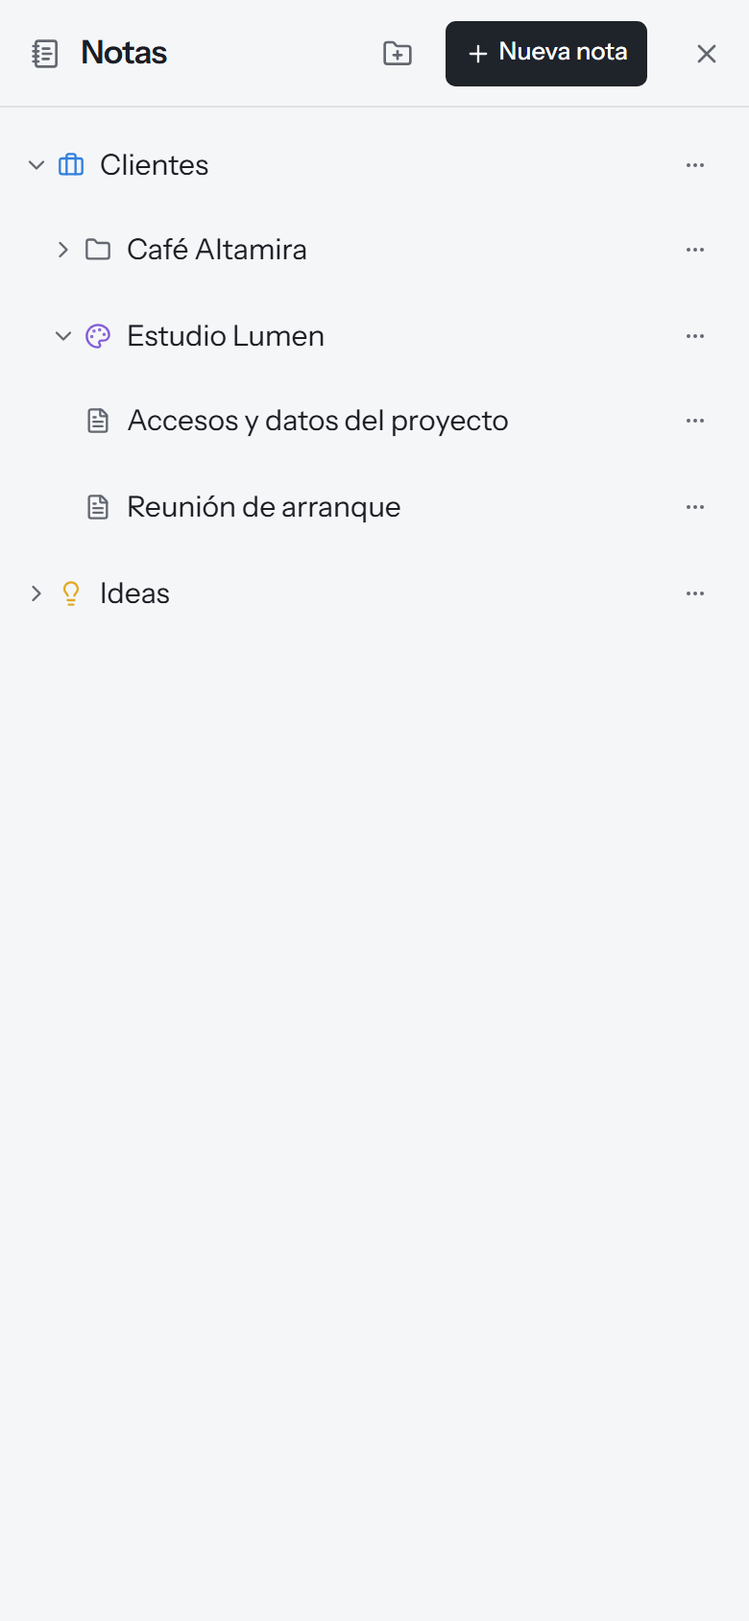
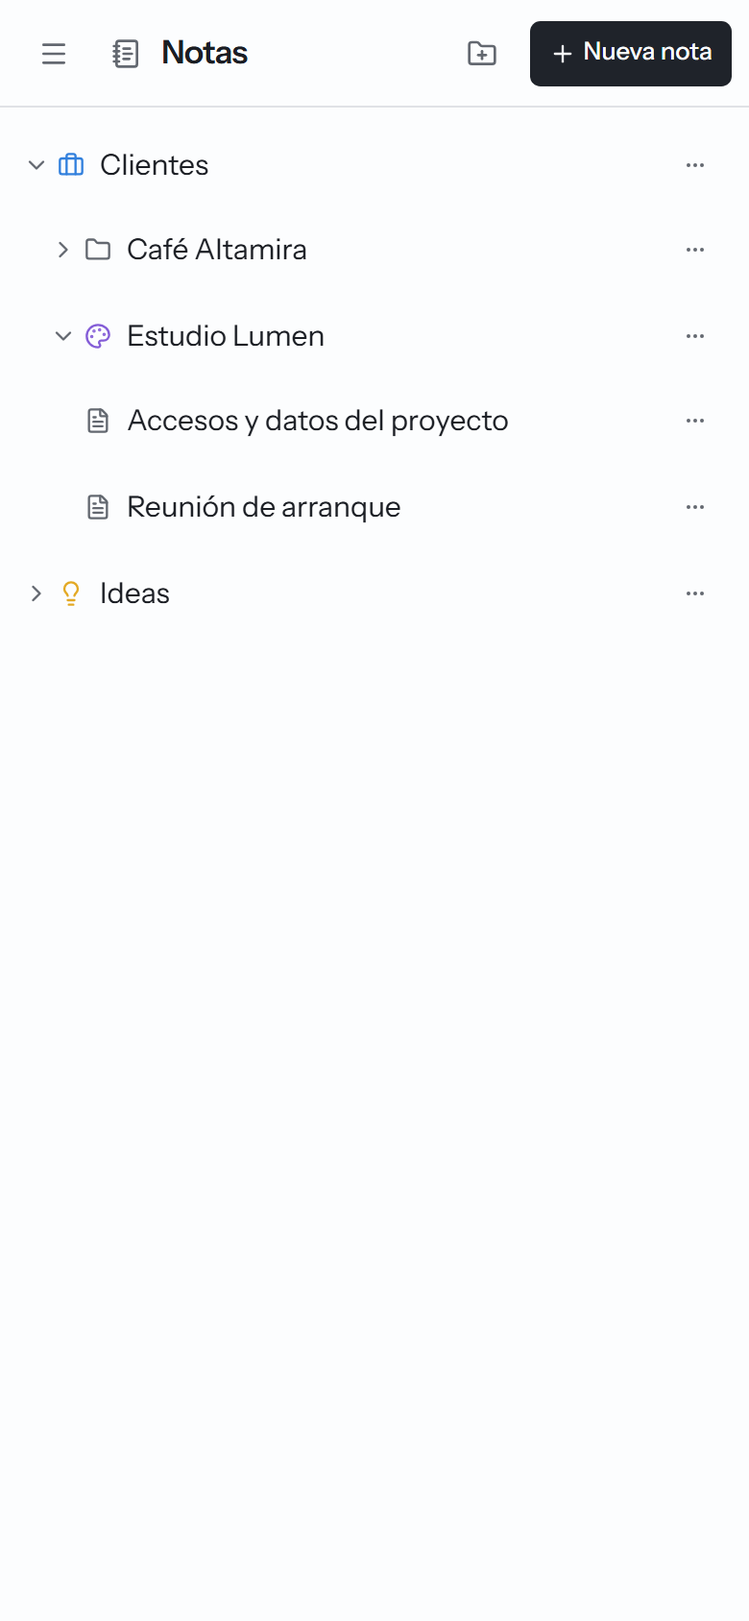
docs: phase 11 in the spec, progress log and README
Spec: the bar, Tareas, board-only panels, status tiles and the mobile
sheet, plus the phase 11 section. Screenshots regenerated with boards
in the three states and a new one with the mobile sheet open.

diff --git a/docs/SPEC.md b/docs/SPEC.md
@@ -1,7 +1,7 @@
 # notnot.ion — Spec
 
 ## Qué es
-App personal para organizar el laburo por cliente. La app abre en una grilla de cuadrados: Hoy, uno por cliente o categoría, Notas y Finanzas. Tocar un cuadrado lo abre encima: el tablero kanban del cliente con sus notas rápidas (escribís como en un chat con vos mismo y cada línea que empieza con `[]` se convierte en tarjeta), lo de hoy de todos los clientes, la sección Notas o Finanzas.
+App personal para organizar el laburo por cliente. A la izquierda va una barra con Hoy (lo de hoy de todos los clientes), Tareas, Finanzas y el árbol de la sección Notas. Tareas es una grilla con un cuadrado por cliente o categoría, pintado según cómo viene (por hacer, en curso o al día). Tocar un cuadrado lo abre encima: el tablero kanban del cliente con sus notas rápidas (escribís como en un chat con vos mismo y cada línea que empieza con `[]` se convierte en tarjeta).
 
 - Un solo usuario. Sin registro ni cuentas: solo un candado con código (ver "Candado").
 - Web + PWA instalable en celu y compu. Sin tiendas.
@@ -102,7 +102,7 @@ REST + JSON bajo `/api`. Toda entrada se valida con los schemas de `shared`. Err
 | GET | `/boards/:id/notes?before=` | 50 notas por página, cada una con sus tareas |
 | POST | `/notes` | `{ boardId, content }` → nota + tareas |
 | DELETE | `/notes/:id` | Borra la nota; las tareas quedan |
-| GET | `/overview` | Columnas y tarjetas (sin archivar) de todos los tableros activos: los cuadrados del Inicio y Hoy |
+| GET | `/overview` | Columnas y tarjetas (sin archivar) de todos los tableros activos: los cuadrados de Tareas, Hoy y sus números en la barra |
 | GET | `/history?boardId=&before=` | Tarjetas del historial, de la más nueva a la más vieja, 50 por página. Sin `boardId`, las de todos los tableros |
 | POST | `/tasks/:id/images?width=&height=` | Sube una imagen (el cuerpo es el archivo: WebP, JPEG o PNG, hasta 4 MB) y devuelve `{ id, width, height }` |
 | GET | `/images/:id` | La imagen, con `Cache-Control: private, max-age=31536000, immutable` |
@@ -121,30 +121,33 @@ REST + JSON bajo `/api`. Toda entrada se valida con los schemas de `shared`. Err
 | POST | `/receivables` | `{ description, amountCents, currency, boardId?, dueDate?, note? }` |
 | PATCH / DELETE | `/receivables/:id` | Editar / borrar (sus pagos quedan) |
 
-La web manda en cada pedido `X-Day-Start` con la medianoche de hoy en el dispositivo (ISO). Al leer un tablero, lo del Inicio (`/overview`), notas o historial, la API pasa al historial las terminadas antes de esa hora. Sin el header (o si está a más de 48 h de la hora del server) no archiva nada: no hace falta ninguna tarea programada.
+La web manda en cada pedido `X-Day-Start` con la medianoche de hoy en el dispositivo (ISO). Al leer un tablero, lo de todos (`/overview`), notas o historial, la API pasa al historial las terminadas antes de esa hora. Sin el header (o si está a más de 48 h de la hora del server) no archiva nada: no hace falta ninguna tarea programada.
 
 ## UI
-- Rutas: `/unlock`, `/` (el Inicio), `/hoy`, `/b/:slug` (la web resuelve slug → id con la lista de tableros), `/p` (la sección Notas), `/p/:id` (una nota de la sección Notas), `/finanzas/:mes` (`/finanzas` abre el mes actual), `/finanzas/por-cobrar` y `/notas/:slug` (la ventana de notas). Todas menos `/unlock` y la ventana de notas son el Inicio con un panel abierto encima; un link directo abre el Inicio con su panel. `/?nueva-nota` (el atajo de la app instalada) abre las notas de General.
-- **Inicio** (`/`): arriba, la barra con la marca, "Nuevo tablero", "Historial" (el de todos los tableros), "Instalar app" (si se puede) y "Bloquear"; abajo, "Anotar…" y la grilla de cuadrados: Hoy, un cuadrado por tablero activo en su orden (General al final), Notas y Finanzas. Los archivados van plegados abajo ("Archivados (n)"). La grilla se acomoda al ancho (de a dos en el celu).
-  - Cuadrado de un tablero, teñido con su color: nombre, cuántas son para hoy (el sol), hasta tres tareas (primero lo que está en curso, después lo de hoy), las abiertas como número grande y las tachadas hoy. Hoy: la fecha, hasta cuatro de hoy con el punto de su tablero y cuántas quedan. Notas: las últimas editadas y cuántas hay. Finanzas: lo por cobrar (lo vencido en rojo, con cuántas vencieron) y el total.
-  - "Anotar…": una tarea por línea; `@tablero` la manda ahí (sin `@`, a General) y los chips eligen el día (Hoy, los seis que siguen o "Sin día"; en el Inicio arranca en Hoy). Enter anota (Shift+Enter, salto de línea; con el dedo, el botón) y el cuadrado que la recibe late. El mismo campo está en Hoy y en cada tablero, donde sin `@` va a ese tablero y arranca en "Sin día".
-- **Panel**: tocar un cuadrado lo abre encima: crece desde el cuadrado (GSAP Flip, 0,3 s) hasta un panel grande sobre el Inicio oscurecido (en el celu, la pantalla entera) teñido con su color, y al cerrarse (×, Esc, tocando afuera) vuelve al cuadrado; "atrás" del navegador también lo cierra. Con `prefers-reduced-motion`, solo un fundido. Adentro, cada sección tiene su encabezado con la ×.
-- Sección Notas en su panel: en la compu, el árbol a la izquierda y la nota abierta a la derecha; en el celu, la lista o la nota (con "‹" para volver). El árbol: plegable (se recuerda qué carpetas están abiertas), carpetas primero y orden alfabético. "+" crea una nota o una carpeta; el "…" de cada fila tiene crear adentro (carpetas), renombrar, "Personalizar" (carpetas: color e ícono, con la fila como va a quedar), "Mover a…" y borrar. Sin elegir, una carpeta se ve gris con el ícono de carpeta. Una carpeta nueva queda lista para escribirle el nombre; una nota se renombra en su título. Borrar una carpeta vacía no pregunta; con contenido, pide confirmación y dice qué se lleva.
+- Rutas: `/unlock`, `/` (Tareas), `/b/:slug` (un tablero, en su panel encima de Tareas; la web resuelve slug → id con la lista de tableros), `/hoy`, `/p` (la sección Notas), `/p/:id` (una nota de la sección Notas), `/finanzas/:mes` (`/finanzas` abre el mes actual), `/finanzas/por-cobrar` y `/notas/:slug` (la ventana de notas). Todas menos `/unlock` y la ventana de notas van al lado de la barra; un link directo a `/b/:slug` abre Tareas con el panel del tablero. `/?nueva-nota` (el atajo de la app instalada) abre las notas de General.
+- **Barra** (a la izquierda, 240 px): la marca (lleva a Tareas); Hoy (con cuántas quedan para hoy), Tareas (con las abiertas de todos los tableros activos; queda marcada con un tablero abierto) y Finanzas (con lo por cobrar que vence hoy o ya venció, en rojo); debajo, la sección Notas (su "+" y el árbol). Abajo, fijos, "Instalar app" (si se puede) y "Bloquear". Si el árbol es largo, scrollea el cuerpo de la barra y el pie no se mueve.
+- **Tareas** (`/`): el encabezado con "Historial" (el de todos los tableros) y "Nuevo tablero"; abajo, "Anotar…" y la grilla: un cuadrado por tablero activo en su orden (General al final). Los archivados van plegados abajo ("Archivados (n)"). La grilla se acomoda al ancho (de a dos en el celu).
+  - El cuadrado se pinta con el estado del tablero (fondo teñido y borde del mismo color): **al día** (verde) si no le queda ninguna abierta, también sin tareas; **en curso** (amarillo) si alguna abierta está en una columna "en curso" (cualquier normal que no sea la primera); **por hacer** (azul) si tiene abiertas y ninguna en curso. Son los colores de los títulos de columna. El estado también va escrito al pie ("Por hacer", "En curso", "Al día"), en su color.
+  - Adentro: el punto con el color del tablero y el nombre; arriba a la derecha, cuántas son para hoy (el sol) y las tachadas hoy; hasta tres tareas (primero lo que está en curso, después lo de hoy); las abiertas como número grande.
+  - "Anotar…": una tarea por línea; `@tablero` la manda ahí (sin `@`, a General) y los chips eligen el día (Hoy, los seis que siguen o "Sin día"; en Tareas arranca en Hoy). Enter anota (Shift+Enter, salto de línea; con el dedo, el botón) y el cuadrado que la recibe late. El mismo campo está en Hoy y en cada tablero, donde sin `@` va a ese tablero y arranca en "Sin día".
+- **Panel** (solo tableros): tocar un cuadrado lo abre encima: crece desde el cuadrado (GSAP Flip, 0,3 s) hasta un panel grande sobre la app oscurecida (en el celu, la pantalla entera), con fondo y borde normales, y al cerrarse (×, Esc, tocando afuera) vuelve al cuadrado; "atrás" del navegador también lo cierra. Abierto desde Hoy, al cerrarse vuelve a Hoy. Con `prefers-reduced-motion`, solo un fundido.
+- Hoy, la sección Notas y Finanzas se ven al lado de la barra, sin panel. Cada sección tiene su encabezado.
+- Sección Notas: en la compu, el árbol está en la barra y al lado va la nota abierta (en `/p`, "Elegí una nota de la barra o creá una con el «+»"); en el celu, `/p` es la lista a pantalla completa (con "Nueva nota" a un toque) y `/p/:id`, la nota (con "‹" para volver). El árbol: plegable (se recuerda qué carpetas están abiertas), carpetas primero y orden alfabético. "+" crea una nota o una carpeta; el "…" de cada fila tiene crear adentro (carpetas), renombrar, "Personalizar" (carpetas: color e ícono, con la fila como va a quedar), "Mover a…" y borrar. Sin elegir, una carpeta se ve gris con el ícono de carpeta. Una carpeta nueva queda lista para escribirle el nombre; una nota se renombra en su título. Borrar una carpeta vacía no pregunta; con contenido, pide confirmación y dice qué se lleva.
 - Finanzas tiene dos pestañas: **Cobrado** (los pagos por mes) y **Por cobrar** (con cuántas hay pendientes).
 - Cobrado (`/finanzas/2026-10`): el mes con flechas para ir y volver y la lista de los meses con pagos; lo cobrado en el mes por moneda; la lista por fecha o agrupada por categoría con subtotales (`?por=categoria`). "Anotar un pago" y tocar uno abren el mismo formulario: monto como se escribe acá ("150.000", "1.234,50"), moneda, fecha, cliente, categoría (con las ya usadas como sugerencia), descripción y comprobantes (pegar, arrastrar o adjuntar; en uno nuevo se suben al guardarlo). Si hay algo por cobrar, el formulario deja vincular el pago (o desvincularlo); vinculado, la moneda es la de lo que te deben.
 - Por cobrar (`/finanzas/por-cobrar`): lo que te deben en total por moneda y la lista: primero lo vencido (marcado, "venció hace 3 días"), después lo que vence, por fecha ("vence hoy", "vence en 5 días"), y al final lo que no tiene fecha; las cobradas, aparte y plegadas. Cada fila: el día que vence, concepto, cliente, lo que falta (y de cuánto, si ya pagaron una parte) y "Me pagaron", que abre el formulario de un pago ya completo (lo que falta, la moneda, el cliente y el concepto) para ajustar el monto y adjuntar el comprobante. Tocar una abre su formulario: concepto, monto y moneda, vence, cliente, nota y los pagos que tiene.
 - Nota (`/p/:id`): título y texto plano. Se guarda sola (un rato después de la última tecla, al ir a otra nota y al esconder la pestaña) y lo avisa ("Guardando…", "Guardado"). Arriba, dónde está (Notas / carpeta), "Mover a…" y borrar (después de borrarla, vuelve a la lista de notas). En el celu, "‹" vuelve a la lista de notas.
-- Hoy (`/hoy`): la fecha, "Anotar…" (en Hoy) y dos columnas (una abajo de la otra en el celu): **Para hoy**, agrupado por tablero en el orden de los cuadrados (el nombre lleva a su tablero), con "Hechas hoy" plegado abajo; y **Próximos días**, cada día con algo ("Mañana · martes 6", "Jueves 8") con el tablero al lado de cada tarea.
+- Hoy (`/hoy`): la fecha, "Anotar…" (en Hoy) y dos columnas (una abajo de la otra en el celu): **Para hoy**, agrupado por tablero en el orden de los cuadrados (el nombre abre su panel encima de Tareas y, al cerrarlo, se vuelve a Hoy), con "Hechas hoy" plegado abajo; y **Próximos días**, cada día con algo ("Mañana · martes 6", "Jueves 8") con el tablero al lado de cada tarea.
   - Lo pendiente de días anteriores dice de cuándo viene ("de ayer", "del sábado"); lo que está en una columna "En curso" lo dice. Sin nada: "Nada para hoy" y cómo se agrega.
   - Cada tarea: checkbox (tilda como desde el tablero), el título (abre el detalle encima de Hoy) y el sol para sacarla de Hoy. El día se cambia desde el detalle.
-- Panel del tablero: encabezado con el color y el nombre, "Tareas" / "Notas", "Desarchivar" si está archivado, "Historial" (las terminadas de ese tablero, agrupadas por día), el menú del tablero y, en la compu, "Abrir las notas en otra ventana". En Tareas, "Anotar…" y el kanban; en Notas, el panel de notas del tablero (en una columna de lectura). `?vista=notas` o `?nota=` abren Notas.
+- Panel del tablero: encabezado con el punto de color y el nombre, "Tareas" / "Notas", "Desarchivar" si está archivado, "Historial" (las terminadas de ese tablero, agrupadas por día), el menú del tablero y, en la compu, "Abrir las notas en otra ventana". En Tareas, "Anotar…" y el kanban; en Notas, el panel de notas del tablero (en una columna de lectura). `?vista=notas` o `?nota=` abren Notas.
 - Ventana de notas (`/notas/:slug`): una ventana chica aparte (`window.open`, ~400×640) con solo el panel de notas y un selector de tablero arriba (desplegable propio, con el punto de color de cada tablero). Cambiar de tablero cambia dónde se escriben las notas y a dónde van las tareas sin `@`. Lo que cambia en una ventana se refresca en las otras (BroadcastChannel).
 - General es un tablero como los demás, con sus columnas (lo de todos los tableros juntos está en los cuadrados y en Hoy).
 - Columna: título con el color de su rol (la primera normal celeste, las otras amarillas, la de terminadas verde), contador, "+ Agregar tarjeta" al pie y menú (renombrar, marcar como terminadas, borrar). Toda la columna recibe lo que se suelta.
 - Tarjeta: una fila con un checkbox (tilda y destilda como desde la nota), el título (peso normal) con una línea de la descripción debajo y el sol: prendido si es de hoy (o de un día que pasó), apagado al pasar el mouse (con el dedo, siempre) y, si es para otro día, cuándo ("mañana", "jue 29"). Tocar el sol la manda a Hoy o la saca. Click abre el detalle (título, descripción, día, imágenes, mover a otro tablero o columna, borrar, link a la nota de origen). Las columnas miden lo que tienen adentro.
 - Imágenes en el detalle: pegar (Ctrl+V), arrastrar o el botón "Adjuntar" (en el celu abre la galería o la cámara); el navegador las achica y las pasa a WebP antes de subirlas. Miniaturas que se borran (con confirmación) y que, al tocarlas, se agrandan desde su lugar (GSAP Flip, sin animación con `prefers-reduced-motion`) sobre el fondo oscurecido; se cierran con click, Esc o tocando afuera.
 - Mobile (<768px): una sola columna de contenido, sin nada que se salga hacia los costados.
-  - El Inicio es la navegación: los cuadrados de a dos y la barra de arriba con íconos. Cada panel ocupa la pantalla entera y se cierra con la ×.
+  - La barra sale como hoja desde la izquierda con el ☰ que va al principio del encabezado de Tareas, Hoy, la lista de Notas y Finanzas; elegir algo la cierra y Esc la cierra sin moverse. Dentro de una nota va "‹" (vuelve a la lista) en lugar del ☰. En Tareas, los cuadrados van de a dos. El panel de un tablero ocupa la pantalla entera y se cierra con la ×.
   - En el tablero, "Tareas" / "Notas" van en una fila abajo del encabezado.
   - El tablero es una lista: cada columna es un grupo con su título (color de su rol, contador y menú, fijo arriba mientras se recorre el grupo), sus tarjetas como filas y "Agregar tarjeta" al final. En General, igual con sus tres columnas por estado.
   - Mover: long-press y arrastrar a otro grupo (cerca del borde de abajo o de arriba la lista se mueve sola), o "Mover a…" en el detalle.
@@ -340,6 +343,17 @@ La app tenía todo pero desordenado: cinco lugares para anotar una tarea, tres p
 - **Más compacto**: tarjetas con el título en peso normal y columnas del alto de lo que tienen.
 
 **Listo cuando:** el e2e anota desde el Inicio "algo @tablero" para hoy y el cuadrado del tablero y el de Hoy lo cuentan; abre el cuadrado del tablero (el panel queda abierto en `/b/:slug`), ve la tarea con el sol prendido, la tacha y el cuadrado suma una tachada; con Esc vuelve al Inicio; abre Hoy y ve la tarea de un tablero y una de General; manda una tarea a mañana desde el detalle y aparece en "Próximos días"; con el reloj del navegador en mañana, lo pendiente de ayer está en Hoy con "de ayer"; abre Notas y Finanzas desde sus cuadrados; un link directo a `/b/:slug` abre el panel. En 375 px, la grilla va de a dos, el panel ocupa la pantalla y no hay scroll horizontal. La migración, probada con datos de Hoy pendientes y tachados, deja las tareas en General con su día.
+
+### Fase 11 — Barra lateral y cuadrados por estado
+Te gustaron los cuadrados por cliente, pero querías de vuelta la barra de la izquierda con las Notas ahí, un "espacio de tareas" en la barra que muestre todos los cuadrados, y que el color del cuadrado diga el estado (verde si están todas hechas, amarillo si están en proceso, azul si hay por hacer), con el color del tablero solo en el puntito. Una rama y un PR, sin cambios en la API ni en la base.
+
+- **Barra** (ver "Barra" en UI): Hoy, Tareas y Finanzas arriba (así un árbol largo de Notas no los empuja) y la sección Notas debajo. En el celu sale como hoja con el ☰; no vuelve la barra de abajo de la Fase 8.
+- **Tareas** (`/`): "Anotar…" y solo los cuadrados de los tableros. Se van los cuadrados de Hoy, Notas y Finanzas.
+- **Estado de un tablero** (`boardStatus` en `shared`, con tests): al día, en curso o por hacer, según sus tareas abiertas y `laneOf`. Un tablero sin tareas está al día: a la medianoche lo tachado pasa al historial, así que no se distingue de uno que lo tachó todo ayer.
+- **El cuadrado** se tiñe con el color del estado (fondo y borde) y lo dice en palabras; el color del tablero queda en el punto. El panel deja de teñirse.
+- **Hoy, Notas y Finanzas** se ven al lado de la barra, sin panel.
+
+**Listo cuando:** en la compu, la barra muestra Hoy, Tareas, Finanzas y Notas, y en `/` solo hay cuadrados de tableros. El estado de un tablero cambia sin recargar: sin tareas está "al día", con una tarea anotada pasa a "por hacer", al moverla a "En curso" pasa a "en curso" y al tacharla vuelve a "al día". Un cuadrado abre su panel en `/b/:slug` y Esc lo cierra y vuelve a la grilla. Hoy se abre desde la barra; el nombre de un tablero abre su panel y, al cerrarlo, se vuelve a Hoy. El "+" de la barra crea una nota, que se ve en el área principal. Finanzas se abre desde la barra. En 375 px, ☰ abre la barra y elegir Hoy la cierra y muestra Hoy; la grilla va de a dos y no hay scroll horizontal.
 
 ## Después (no ahora)
 - Hoy: ver los días pasados y reordenar arrastrando.

diff --git a/README.md b/README.md
@@ -1,33 +1,34 @@
 # notnot.ion
 
-App personal para organizar el laburo por cliente. Abre en una grilla de cuadrados (Hoy, uno por cliente, Notas y Finanzas) y cada cuadrado se abre encima con todo lo suyo: el tablero kanban del cliente, sus notas rápidas (cada línea que empieza con `[]` se vuelve tarjeta), lo de hoy de todos los clientes, la sección Notas o Finanzas.
+App personal para organizar el laburo por cliente. A la izquierda, una barra con Hoy (lo de hoy de todos los clientes), Tareas, Finanzas y tus notas. Tareas es una grilla con un cuadrado por cliente, pintado según cómo viene (azul por hacer, amarillo en curso, verde al día), y cada cuadrado se abre encima con el tablero kanban del cliente y sus notas rápidas (cada línea que empieza con `[]` se vuelve tarjeta).
 
 Un solo usuario, sin cuentas: la app se abre con un código. Funciona en la web y se instala como PWA en el celu y en la compu.
 
-![El Inicio: el campo para anotar y los cuadrados](docs/capturas/escritorio-inicio.png)
+![Tareas: la barra, el campo para anotar y los cuadrados por estado](docs/capturas/escritorio-inicio.png)
 
-| Oscuro                                              | Celu: Inicio                                             | Celu: tablero                                           |
-| --------------------------------------------------- | -------------------------------------------------------- | ------------------------------------------------------- |
-| ![Modo oscuro](docs/capturas/escritorio-oscuro.png) | ![El Inicio en el celu](docs/capturas/mobile-inicio.png) | ![Tablero en el celu](docs/capturas/mobile-tablero.png) |
+| Oscuro                                              | Celu: Tareas                                          | Celu: menú                                            | Celu: tablero                                           |
+| --------------------------------------------------- | ----------------------------------------------------- | ----------------------------------------------------- | ------------------------------------------------------- |
+| ![Modo oscuro](docs/capturas/escritorio-oscuro.png) | ![Tareas en el celu](docs/capturas/mobile-inicio.png) | ![La barra en el celu](docs/capturas/mobile-menu.png) | ![Tablero en el celu](docs/capturas/mobile-tablero.png) |
 
 ## Cómo se usa
 
-- **Inicio**: arriba, "Anotar…"; abajo, los cuadrados. Cada uno resume lo suyo: las tareas abiertas (el número grande), lo que está en curso, cuántas son para hoy (el sol) y cuántas tachaste hoy. Tocarlo lo abre encima: crece desde su lugar y, al cerrarlo (×, Esc o tocando afuera), vuelve ahí. Los tableros archivados quedan plegados abajo.
+- **Barra**: Hoy (con cuántas te quedan para hoy), Tareas (con las abiertas de todos los clientes), Finanzas (en rojo, lo que vence hoy o ya venció) y, debajo, tus notas.
+- **Tareas**: arriba, "Anotar…"; abajo, un cuadrado por cliente. El color dice cómo viene y también lo dice al pie: azul "Por hacer" (tiene tareas y ninguna empezada), amarillo "En curso" (alguna está en una columna en curso) y verde "Al día" (no le queda ninguna). El color del cliente queda en el puntito al lado del nombre. Cada cuadrado muestra las abiertas (el número grande), hasta tres tareas, cuántas son para hoy (el sol) y cuántas tachaste hoy. Tocarlo lo abre encima: crece desde su lugar y, al cerrarlo (×, Esc o tocando afuera), vuelve ahí. Los tableros archivados quedan plegados abajo.
 - **Anotar**: escribís la tarea y das Enter. Con `@tablero` va a ese cliente (sin `@`, a General); los chips eligen el día (Hoy, los próximos de la semana o "Sin día"). Pegando varias líneas se anota una tarea por línea. El mismo campo está en Hoy y en cada tablero (ahí, sin `@`, va a ese tablero).
-- **Hoy**: lo que tenés que hacer hoy de todos los clientes, agrupado por cliente, con los próximos días al lado. Lo que no tachás pasa solo al día siguiente, marcado ("de ayer"). Una tarea va a Hoy con el sol de su tarjeta (o eligiendo el día en su detalle) y sale tocándolo de nuevo.
+- **Hoy**: lo que tenés que hacer hoy de todos los clientes, agrupado por cliente, con los próximos días al lado. El nombre de un cliente abre su tablero encima y, al cerrarlo, volvés a Hoy. Lo que no tachás pasa solo al día siguiente, marcado ("de ayer"). Una tarea va a Hoy con el sol de su tarjeta (o eligiendo el día en su detalle) y sale tocándolo de nuevo.
 - **Tableros**: uno por cliente o categoría, con columnas "Por hacer", "En curso" y "Hecho" (podés agregar, renombrar y elegir cuál es la de terminadas). General guarda lo que no es de ningún cliente.
 - **Tarjetas**: se tildan con su checkbox (igual que desde la nota) y se mueven arrastrando a cualquier parte de la columna (con el mouse, con espacio y flechas, o con un toque largo en el celu) o desde el detalle con "Mover a…". En el detalle también se elige el día.
 - **Imágenes**: en el detalle de una tarjeta, pegá una captura (Ctrl+V), arrastrá una imagen o tocá "Adjuntar" (en el celu, galería o cámara). Se achican antes de subirse, se agrandan al tocarlas y son privadas: solo se ven con el candado abierto.
 - **Notas del tablero**: en la pestaña "Notas" de cada tablero, escribís como en un chat. El composer ya arranca con `[] `: escribís, das Enter y se crea la tarjeta, listo para la siguiente. Cada línea que empieza con `[]`, `[ ]`, `- []`, `- [ ]` o `* [ ]` se vuelve tarjeta al final de "Por hacer"; para una nota común, borrás los corchetes. Con `@tablero` la mandás a otro tablero. Abajo del composer se ve antes de enviar: "2 tareas → Pepito, General".
 - Tildar una línea de la nota manda la tarjeta a "Hecho"; moverla en el tablero actualiza el tilde. Borrar una nota deja sus tarjetas.
 - **Notas en otra ventana**: el botón del encabezado del tablero las abre solas en una ventana chica, con un selector de tablero arriba, para tenerlas al costado en una reunión. En Windows, PowerToys la deja siempre encima con Win+Ctrl+T.
-- **Historial**: cada día arranca con "Hecho" vacío. Lo terminado antes de hoy pasa al Historial, agrupado por día: el de cada tablero en su encabezado y el de todos en la barra de arriba del Inicio.
-- **Sección Notas** (su cuadrado): para lo que no es una tarea. Carpetas con carpetas adentro y notas con título y texto, que se guardan solas mientras escribís. En la compu, el árbol a la izquierda y la nota al lado. Se crean, renombran, mueven ("Mover a…") y borran desde el "…" de cada una; las carpetas, además, se personalizan con un color y un ícono.
+- **Historial**: cada día arranca con "Hecho" vacío. Lo terminado antes de hoy pasa al Historial, agrupado por día: el de cada tablero en su encabezado y el de todos en el encabezado de Tareas.
+- **Sección Notas** (en la barra): para lo que no es una tarea. Carpetas con carpetas adentro y notas con título y texto, que se guardan solas mientras escribís. El "+" crea una nota o una carpeta, y la nota se abre al lado de la barra. Se crean, renombran, mueven ("Mover a…") y borran desde el "…" de cada una; las carpetas, además, se personalizan con un color y un ícono.
 - **Finanzas → Cobrado**: los pagos que te hicieron, en pesos o dólares, organizados por mes. Cada uno con fecha, monto, cliente (uno de los tableros), categoría, descripción y comprobantes. Arriba, lo cobrado en el mes por moneda; la lista se ve por fecha o agrupada por categoría.
-- **Finanzas → Por cobrar**: lo que te deben, con el día que vence. Lo vencido queda arriba y marcado, y el cuadrado de Finanzas muestra cuánto te deben y cuántas vencieron. "Me pagaron" anota el pago ya completo (si fue una parte, cambiás el monto y queda lo que falta); cuando está todo, pasa a "Cobradas" con la lista de sus pagos.
-- **En el celu**: los cuadrados van de a dos y cada uno se abre a pantalla completa. El tablero es una lista, con las columnas una abajo de la otra. La tarjeta y los formularios se abren desde abajo, y todo se toca cómodo con el dedo.
+- **Finanzas → Por cobrar**: lo que te deben, con el día que vence. Lo vencido queda arriba y marcado, y Finanzas en la barra muestra cuántas vencen hoy o ya vencieron. "Me pagaron" anota el pago ya completo (si fue una parte, cambiás el monto y queda lo que falta); cuando está todo, pasa a "Cobradas" con la lista de sus pagos.
+- **En el celu**: la barra se abre con el ☰ del encabezado y se cierra sola al elegir algo. Los cuadrados van de a dos y el tablero se abre a pantalla completa. El tablero es una lista, con las columnas una abajo de la otra. La tarjeta y los formularios se abren desde abajo, y todo se toca cómodo con el dedo.
 
-![Un tablero abierto encima del Inicio](docs/capturas/escritorio-tablero.png)
+![Un tablero abierto encima de Tareas](docs/capturas/escritorio-tablero.png)
 
 ![Hoy: lo de todos los clientes y los próximos días](docs/capturas/escritorio-hoy.png)
 

diff --git a/docs/PROGRESO.md b/docs/PROGRESO.md
@@ -2,7 +2,7 @@
 
 ## Fase actual
 
-**Fase 10 — Inicio en cuadrados: hecha.** Las fases 0 a 10 están hechas. La base de dev sigue sin andar, así que esta fase se probó con la API de verdad contra un Postgres en memoria (PGlite), con las migraciones del repo: ver "Pendientes para vos".
+**Fase 11 — Barra lateral y cuadrados por estado: hecha.** Las fases 0 a 11 están hechas. La base de dev sigue sin andar, así que esta fase también se probó con la API de verdad contra un Postgres en memoria (PGlite), con las migraciones del repo: ver "Pendientes para vos".
 
 ## Hecho
 
@@ -103,6 +103,15 @@
 - **Más compacto**: tarjetas con el título en peso normal y columnas del alto de lo que tienen.
 - e2e: `home.spec.ts` (el "Listo cuando": anotar con `@` para hoy, abrir el cuadrado, tachar, Esc, Hoy con un tablero y General, pasar a mañana, el día siguiente con "de ayer", Notas, Finanzas, link directo y el celu en 375 px) y los specs de antes actualizados a la navegación nueva (se fueron `today.spec.ts` y `general.spec.ts`). Contra la API local pasan 40 de 42: los 2 que no, suben imágenes (`images.spec.ts` y el comprobante de `finance.spec.ts`) necesitan el token de Vercel Blob de dev. Los e2e encontraron dos bugs que quedaron arreglados: Esc en un campo dentro del panel (agregar tarjeta, renombrar) cerraba el panel entero, y al crear una carpeta desde el menú de Notas el menú le robaba el foco al nombre. La migración se probó con datos de Hoy pendientes y tachados: quedan en General, en orden y con su día. README con capturas nuevas.
 
+### Fase 11 — Barra lateral y cuadrados por estado
+
+- **Por qué**: te gustaron los cuadrados por cliente, pero querías de vuelta la barra de la izquierda con las Notas ahí, un "espacio de tareas" en la barra con todos los cuadrados, y que el color de cada cuadrado diga el estado (verde todo hecho, amarillo en proceso, azul por hacer), con el color del tablero solo en el puntito.
+- **Barra** (`app/Sidebar.tsx`, `app/AppLayout.tsx`): Hoy, Tareas y Finanzas con sus números, el árbol de Notas debajo e "Instalar app" y "Bloquear" abajo. En el celu sale como hoja con el ☰ del encabezado de cada sección; elegir algo la cierra, Esc la cierra y el foco vuelve al ☰.
+- **Tareas** (`/`, `home/TasksHome.tsx`): "Historial" y "Nuevo tablero" en el encabezado, "Anotar…" y solo los cuadrados de los tableros (se fueron los de Hoy, Notas y Finanzas). El panel de un tablero se abre encima como en la Fase 10 (`/b/:slug` es ruta hija de `/`) y, si lo abriste desde Hoy, al cerrarlo volvés a Hoy.
+- **Estado de un tablero**: `boardStatus` en `shared`, con tests. El cuadrado se tiñe con el color del estado (fondo y borde), lo dice al pie ("Por hacer", "En curso", "Al día") y el color del tablero queda en el punto. El panel ya no se tiñe.
+- **Hoy, Notas y Finanzas** al lado de la barra, sin panel. En la compu, `/p` muestra "Elegí una nota de la barra o creá una con el «+»"; en el celu, `/p` sigue siendo la lista a pantalla completa.
+- e2e: `home.spec.ts` (el estado cambia sin recargar: al día → por hacer → en curso → al día; la barra lleva a Hoy, Tareas, Finanzas y Notas; el panel abierto desde Hoy vuelve a Hoy; ☰ en 375 px) y los specs de antes adaptados a la navegación nueva (`mobile`, `pages`, `receivables`, `lock-and-boards`). Contra la API local pasan 43 de 45: los 2 que no, son los de siempre (suben imágenes y necesitan el token de Vercel Blob de dev). README con capturas nuevas (se suma `mobile-menu.png`).
+
 ## Decisiones
 
 - **Versiones**: lo último estable que funciona junto. TypeScript 6.0 (typescript-eslint todavía no soporta TS 7), Prisma 7.10 (Prisma 8 está en RC), React Router 8 en modo data, Vite 8, Vitest 5, ESLint 10, Tailwind 4, Zod 4, shadcn CLI 4.
@@ -188,10 +197,22 @@
 - **Columnas del alto de su contenido**: lo pediste más compacto. Para soltar una tarjeta en una columna vacía hay que llevarla hasta la columna (antes toda la altura de la pantalla era zona para soltar).
 - **Tamaño**: Vite avisa que el chunk de librerías pasa los 700 kB (783 kB, 248 kB con gzip). No hay dependencias nuevas (GSAP Flip, Radix Dialog y dnd-kit ya estaban).
 
+- **Barra y cuadrados por estado** (Fase 11). Las marcadas (decisión) las tomó la sesión que escribió el plan; revisalas:
+  - (decisión) Hoy, Tareas y Finanzas van arriba de Notas, así un árbol largo no los empuja.
+  - (decisión) En el celu la barra se abre con un ☰ al principio del encabezado de Tareas, Hoy, la lista de Notas y Finanzas. Dentro de una nota va "‹" y no ☰. No vuelve la barra de abajo de la Fase 8.
+  - (decisión) El encabezado de Tareas lleva "Historial" (el de todos) y "Nuevo tablero": es lo que estaba en la barra de arriba del Inicio.
+  - (decisión) Un tablero sin tareas está "al día": a la medianoche lo tachado pasa al historial, así que no se distingue de uno que lo tachó todo ayer.
+  - (decisión) El cuadrado se tiñe entero (no solo el borde) y el borde, del mismo color, va más marcado (50 %, 75 % con el mouse encima).
+  - (decisión) El estado también va escrito, para no depender solo del color. Lo puse al pie, a la derecha de "N abiertas", y el sol y las tachadas de hoy pasaron arriba a la derecha (solo cuando hay): arriba, la palabra le dejaba al nombre unos 60 px en el celu ("Estudio de…"), y en una fila aparte los cuadrados con nombres de dos líneas dejaban de ser cuadrados.
+  - (decisión) El panel del tablero ya no se tiñe: fondo y borde normales, con el punto de color en su encabezado.
+  - El plan pedía teñir con los mismos colores de los títulos de columna, pero en claro esos colores son oscuros (para que el texto se lea) y el amarillo quedaba marrón claro. El tinte usa el mismo color con la luminosidad subida (`oklch(from … max(l, 0.8) c h)`) y en claro va al 16 %: azul, verde y crema se distinguen sin agregar colores. En oscuro no cambia (14 %).
+  - No hay un link a `/p` en la barra: en el celu la hoja ya muestra el árbol con su "+", y a la lista se llega con "‹" desde una nota.
+  - "Instalar app" vuelve a ser la fila de la barra (como antes de la Fase 10): en la hoja del celu, el botón de solo ícono no decía qué era.
+
 ## Pendientes para vos
 
 - **La Fase 10 en producción**: el deploy corre la migración `task_day`, que pasa lo que tengas en Hoy a tareas de General (con su día; lo tachado, a "Hecho") y borra la tabla vieja. La probé con un Postgres en memoria con las mismas migraciones, no contra Neon. Después del deploy, mirá que en Hoy esté lo que tenías.
-- **Probar el Inicio en el celu y en la compu**: sobre todo cómo se siente la animación (si querés más rápida o más lenta es un número).
+- **Probar la barra y los cuadrados por estado en el celu y en la compu** (Fase 11). Si el tinte o el borde de los cuadrados se quedan cortos o se pasan, decímelo: es un número (`--tile-tint` y la mezcla del borde). Lo mismo con la animación del panel.
 - **Credenciales de la base de dev**: el 5/10 sigue igual y además el preview de Vercel tampoco llega al servidor de Neon `dev` (`P1001: Can't reach database server` en `prisma migrate deploy`), así que los previews fallan antes de compilar: puede que el branch `dev` o su endpoint se haya borrado o suspendido. Desde el 1/10 a la tarde, Neon rechaza el usuario y la contraseña del `.env` (`DATABASE_URL` y `DIRECT_URL`: "Authentication failed"; ese día a las 15:23 los e2e andaban), así que la API local da 500. Seguramente se reseteó la contraseña del branch `dev`. Copiá las dos URLs nuevas del branch `dev` (Neon → Connect) al `.env` y corré `pnpm e2e`: los de las fases 8 y 9 quedaron escritos pero sin correr contra la base (si el branch `dev` cambió, actualizá también `DATABASE_URL` y `DIRECT_URL` de Preview en Vercel). Las capturas del celu del README salieron de la API simulada con los mismos datos de `pnpm --filter @notnot/web capturas`; ese comando las vuelve a sacar con la base.
 - **Probar la versión mobile en tu celu**: abrila (o la app instalada) después del deploy. Si todavía ves la sidebar a la izquierda como en la compu, revisá que el navegador no tenga activado "Sitio de escritorio" para la app.
 - **Instalarla en el celu y en la compu** (ver "Instalarla" en el README). El código de producción te lo pasé por chat; no está en el repo.
